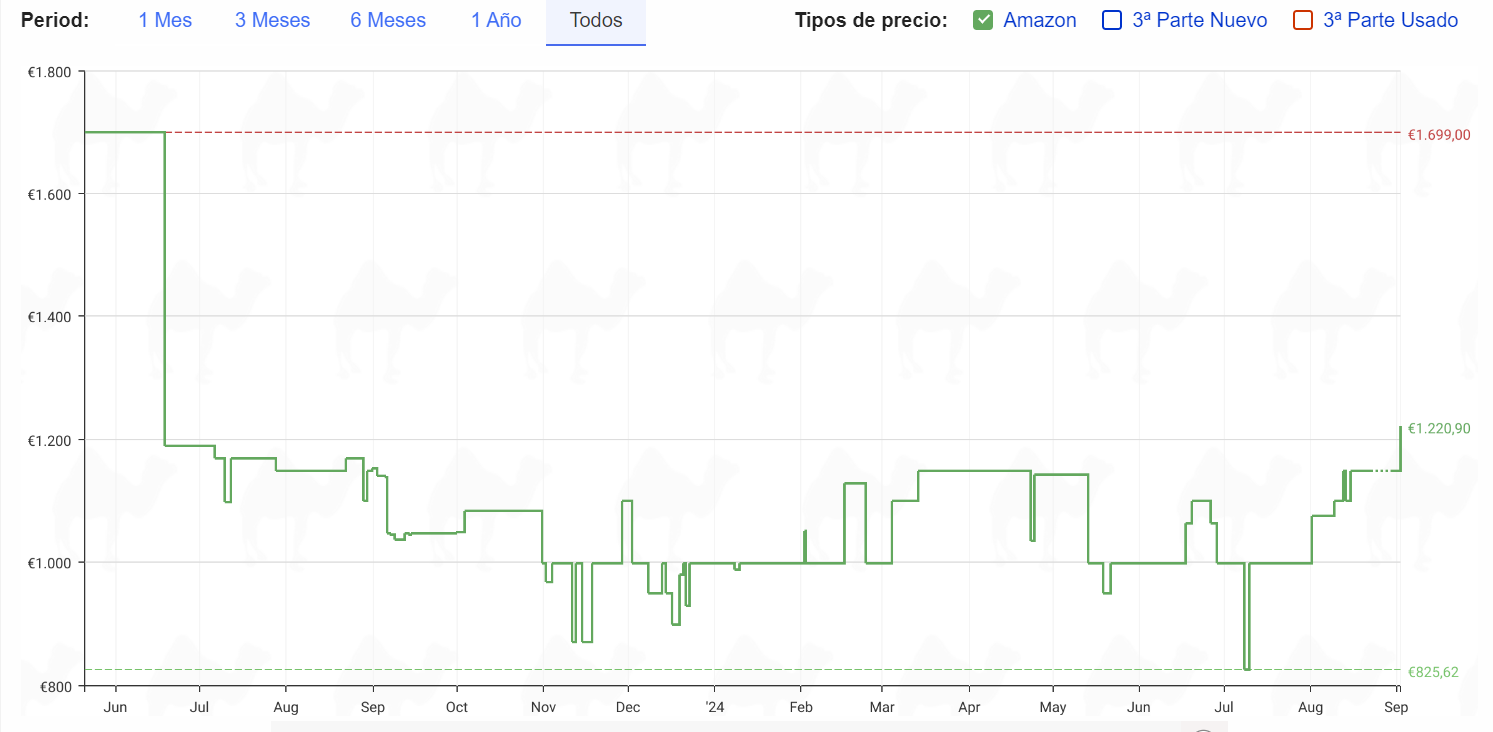
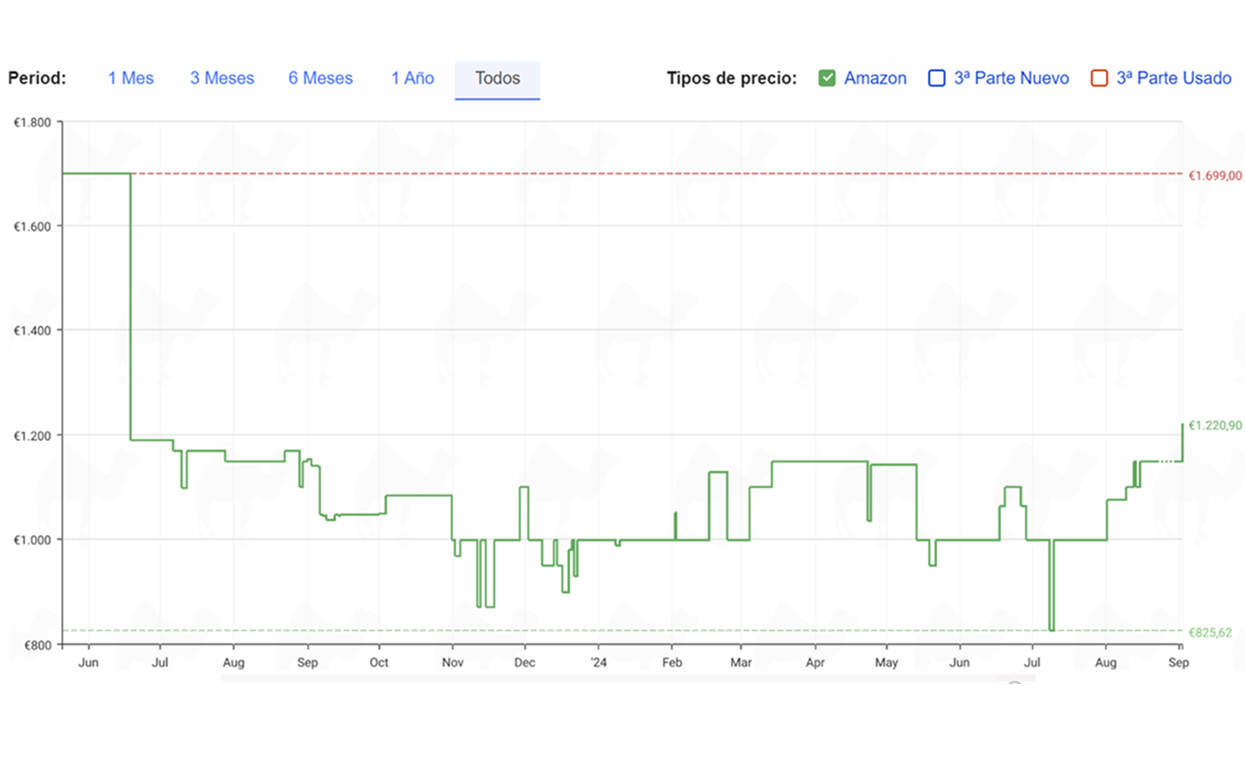
fix: fix image size

diff --git a/index.html b/index.html
@@ -78,7 +78,7 @@
 
 								<!-- Feature #2 -->
 									<section>
-										<a href="#" class="bordered-feature-image"><img src="images/pic02.jpg" alt="" /></a>
+										<a href="#" class="bordered-feature-image"><img src="images/Amazon%20traker.png" alt="" /></a>
 										<h2>Amazon Drop Price</h2>
 										<p>
 											Este script utiliza requests y BeautifulSoup para rastrear el precio de un televisor en Amazon. Si el precio es menor o igual a 1000€, envía un correo electrónico de alerta mediante smtplib. El correo notifica sobre la bajada de precio con el enlace al producto.
